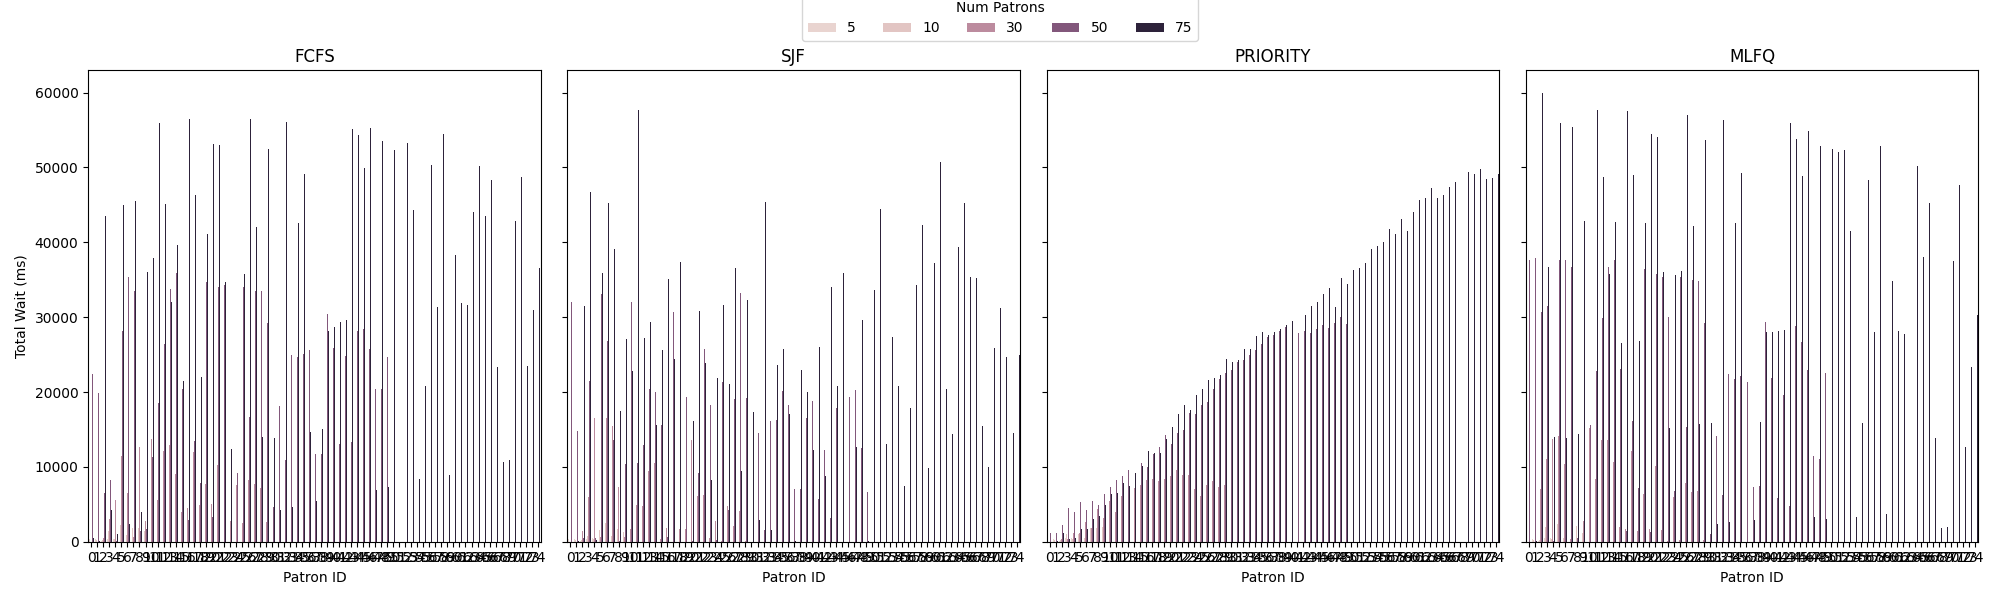
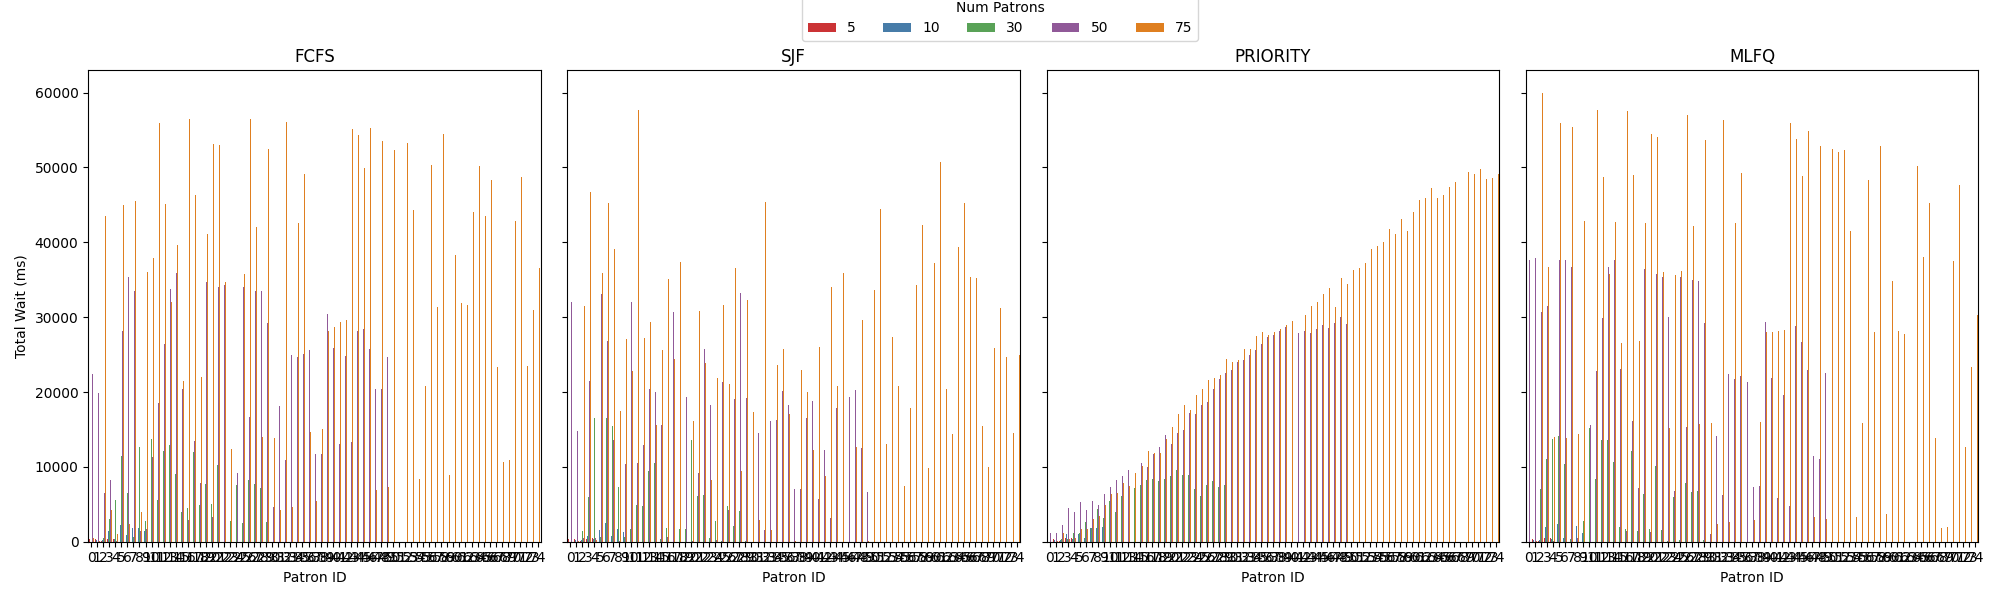
changed color pallette

diff --git a/bin/graphs.py b/bin/graphs.py
@@ -133,7 +133,7 @@ def plot(df):
         subset = df[df['Algorithm'] == algo]
         patron_totals = subset.groupby(['Num_patrons', 'Patron'])['Wait'].sum().reset_index()
         sns.barplot(x='Patron', y='Wait', hue='Num_patrons',
-                    data=patron_totals, ax=ax, legend=(ax == axes[0]))
+                    data=patron_totals, ax=ax, legend=(ax == axes[0]), palette='Set1') 
         ax.set_title(algo)
         ax.set_xlabel('Patron ID')
         ax.set_ylabel('Total Wait (ms)' if ax == axes[0] else '')

diff --git a/src/graphs.py b/src/graphs.py
@@ -133,7 +133,7 @@ def plot(df):
         subset = df[df['Algorithm'] == algo]
         patron_totals = subset.groupby(['Num_patrons', 'Patron'])['Wait'].sum().reset_index()
         sns.barplot(x='Patron', y='Wait', hue='Num_patrons',
-                    data=patron_totals, ax=ax, legend=(ax == axes[0]))
+                    data=patron_totals, ax=ax, legend=(ax == axes[0]), palette='Set1') 
         ax.set_title(algo)
         ax.set_xlabel('Patron ID')
         ax.set_ylabel('Total Wait (ms)' if ax == axes[0] else '')